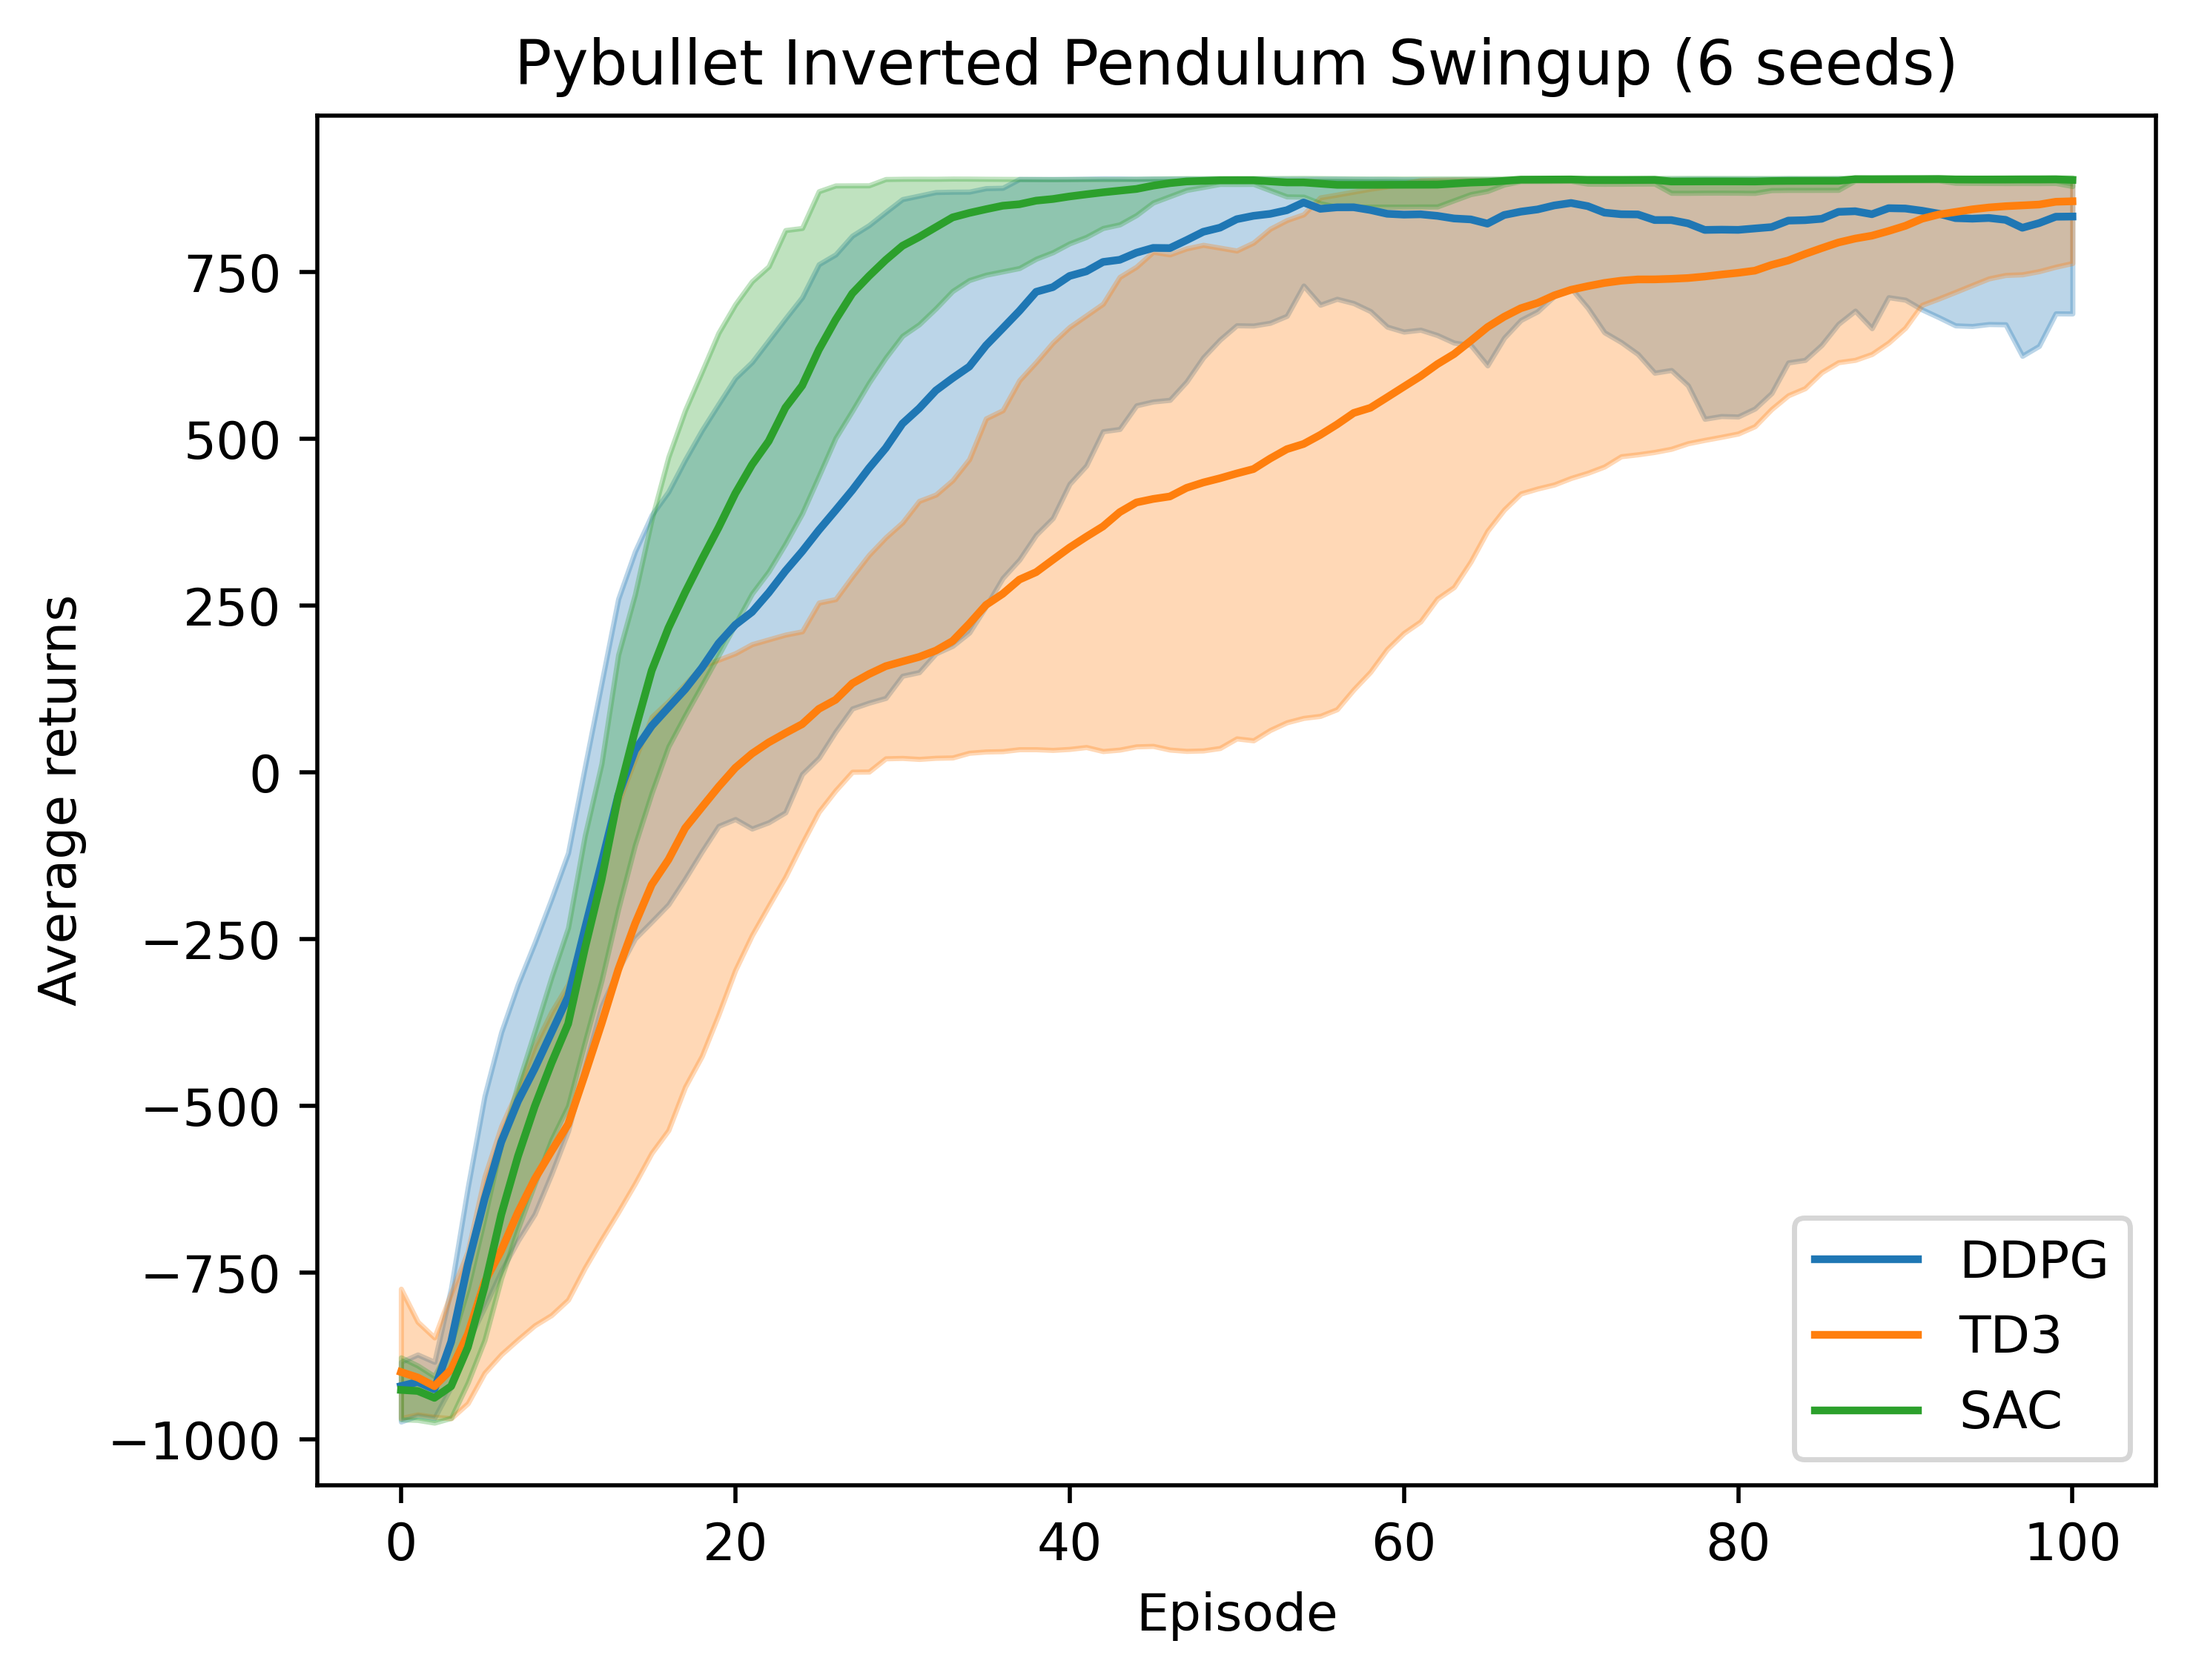
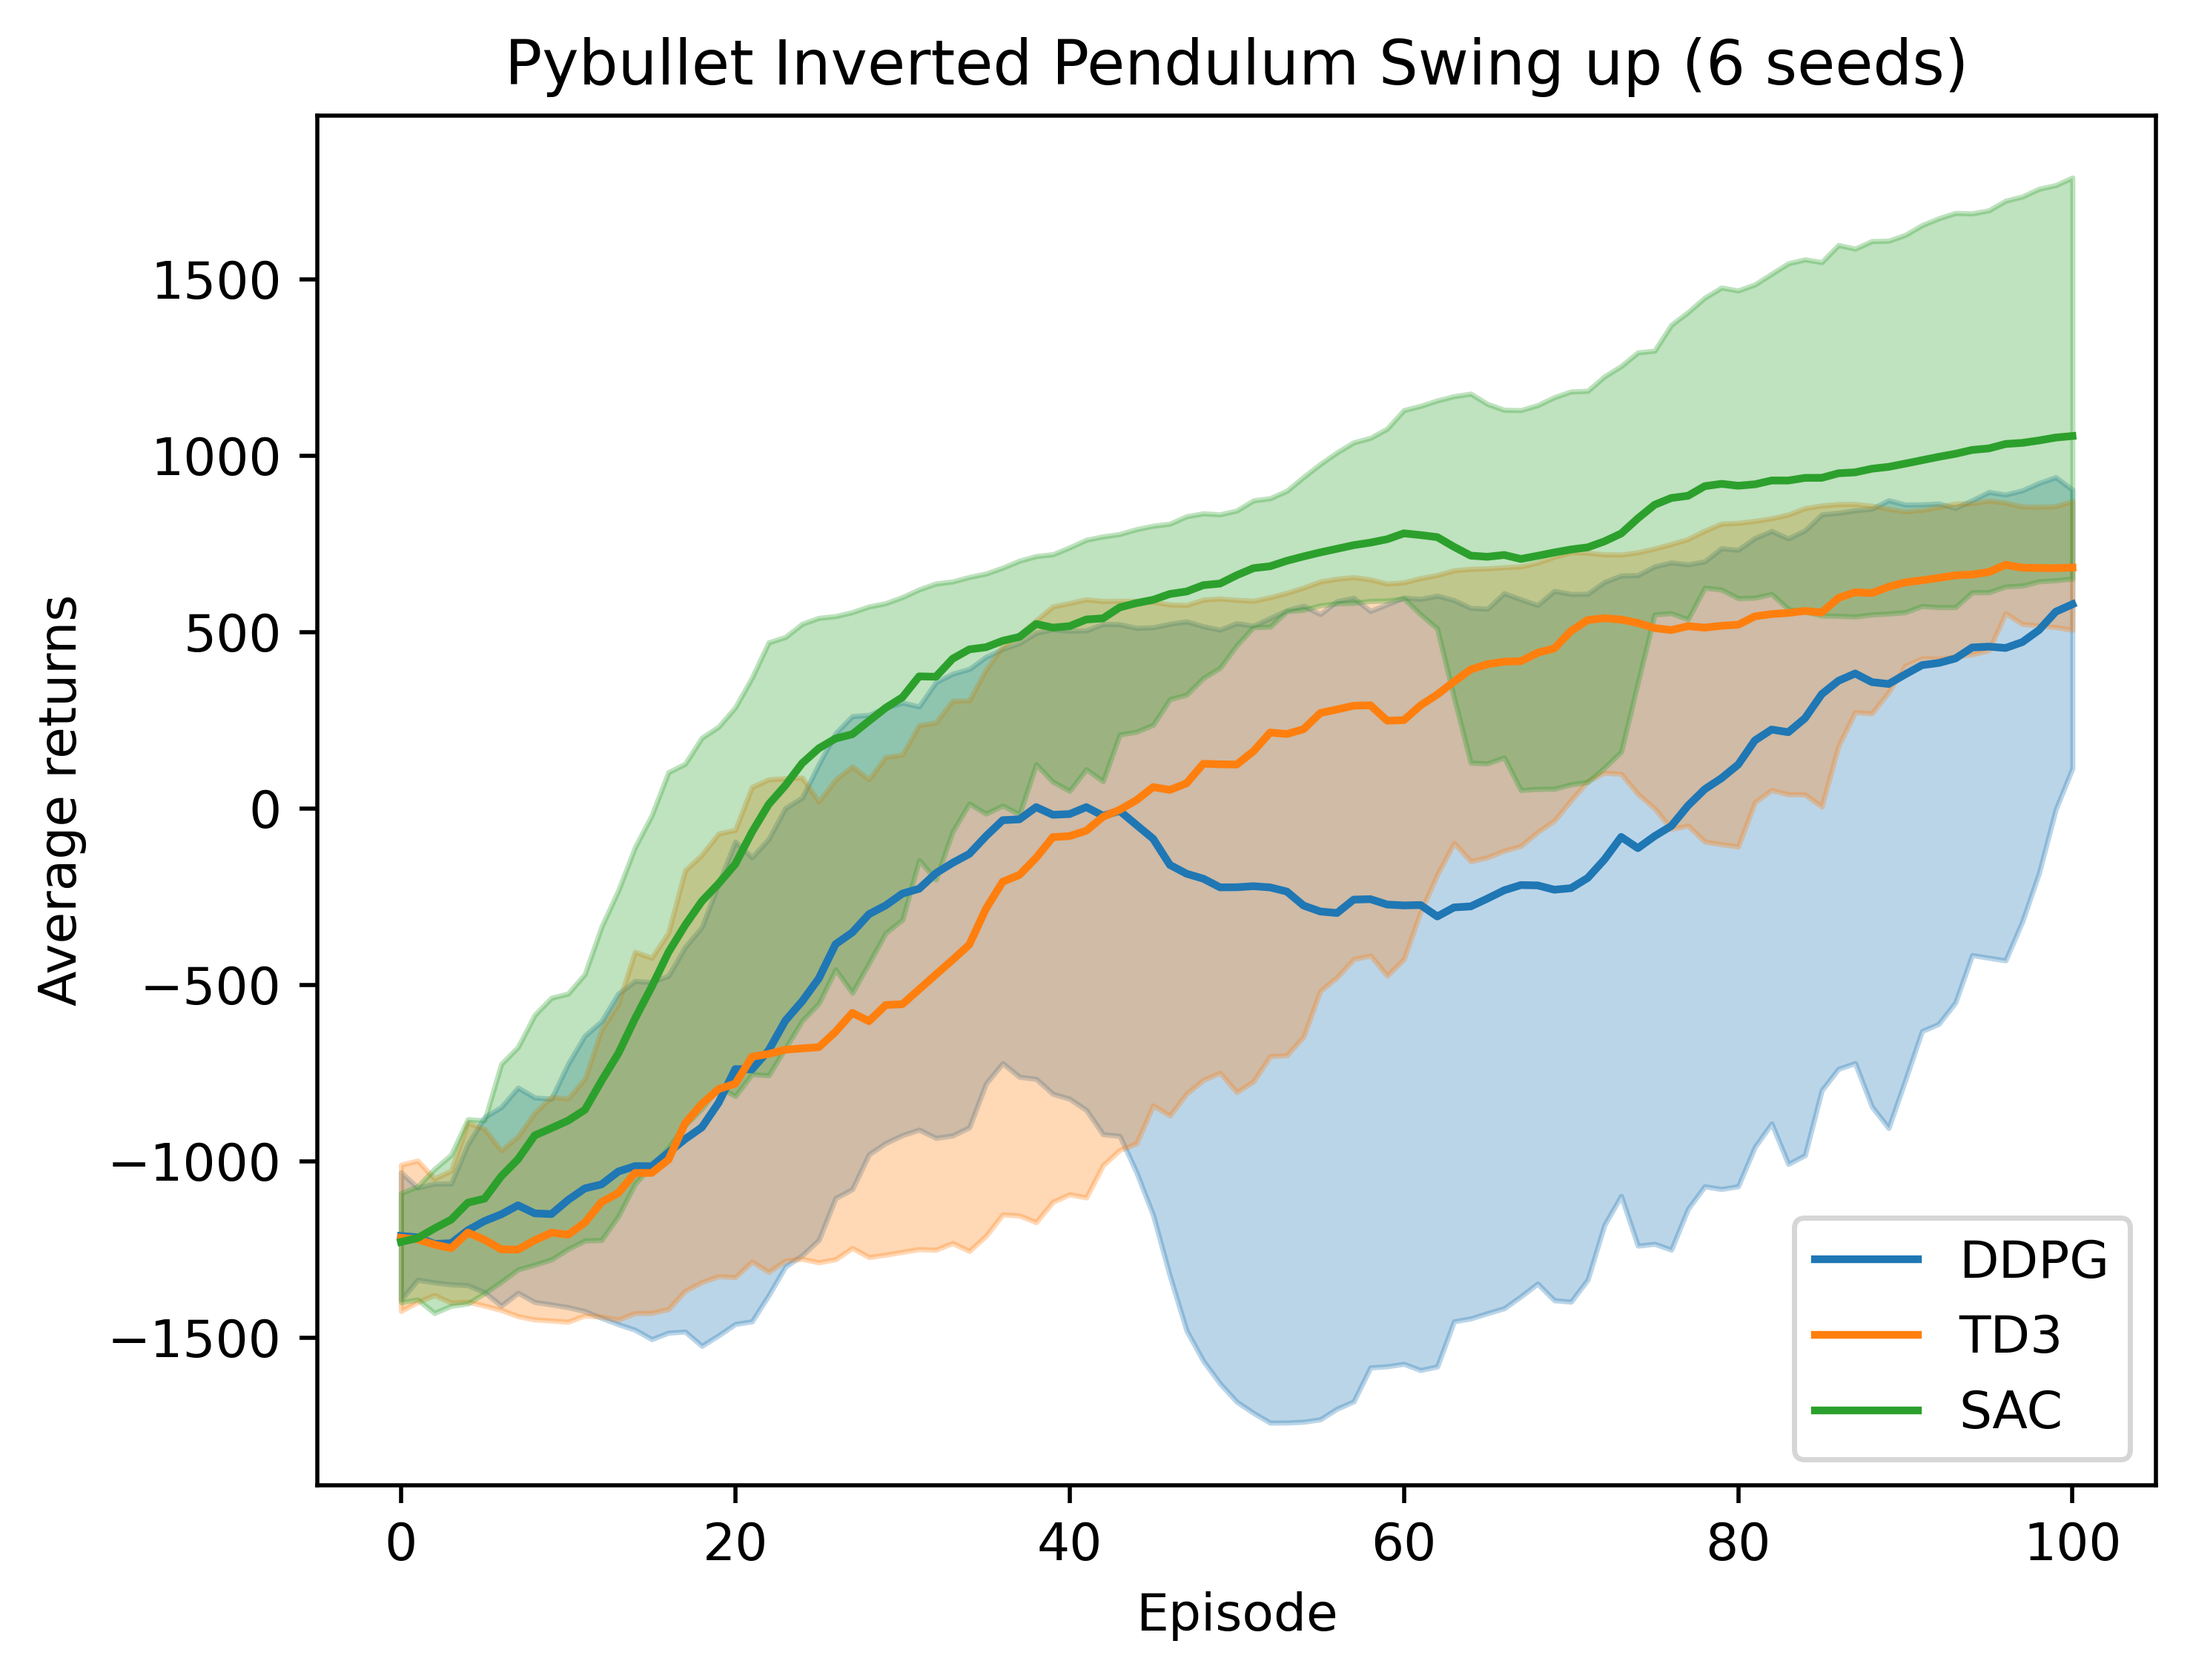
new figures

diff --git a/src/data_processing.py b/src/data_processing.py
@@ -30,14 +30,14 @@ path = path[:-4]
 #                                   window=20,
 #                                   x_label='Cycle', y_label='Average success_rates')
 
-# return_ddpg = json.load(open(os.path.join(path, 'exp_continuous_gym', 'pendulum', 'ddpg', 'return_statistic.json')))
-# return_td3 = json.load(open(os.path.join(path, 'exp_continuous_gym', 'pendulum', 'td3', 'return_statistic.json')))
-# return_sac = json.load(open(os.path.join(path, 'exp_continuous_gym', 'pendulum', 'sac', 'return_statistic.json')))
-#
-# plot.smoothed_plot_mean_deviation(os.path.join(path, 'src', 'returns_pendulum.png'),
-#                                   [return_ddpg, return_td3, return_sac],
-#                                   legend=['DDPG', 'TD3', 'SAC'],
-#                                   legend_loc='lower right',
-#                                   title='Pybullet Inverted Pendulum Swingup (6 seeds)',
-#                                   window=10,
-#                                   x_label='Episode', y_label='Average returns')
+return_ddpg = json.load(open(os.path.join(path, 'exp_continuous_gym', 'half_cheetah', 'ddpg', 'return_statistic.json')))
+return_td3 = json.load(open(os.path.join(path, 'exp_continuous_gym', 'half_cheetah', 'td3', 'return_statistic.json')))
+return_sac = json.load(open(os.path.join(path, 'exp_continuous_gym', 'half_cheetah', 'sac', 'return_statistic.json')))
+
+plot.smoothed_plot_mean_deviation(os.path.join(path, 'src', 'returns_pendulum.png'),
+                                  [return_ddpg, return_td3, return_sac],
+                                  legend=['DDPG', 'TD3', 'SAC'],
+                                  legend_loc='lower right',
+                                  title='Pybullet Inverted Pendulum Swing up (6 seeds)',
+                                  window=10,
+                                  x_label='Episode', y_label='Average returns')
